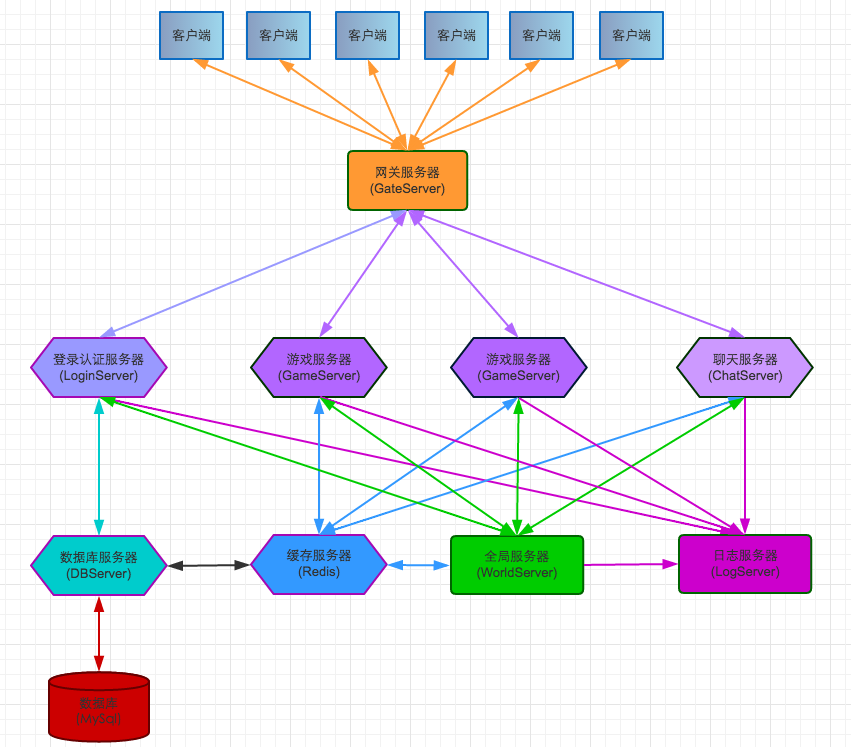
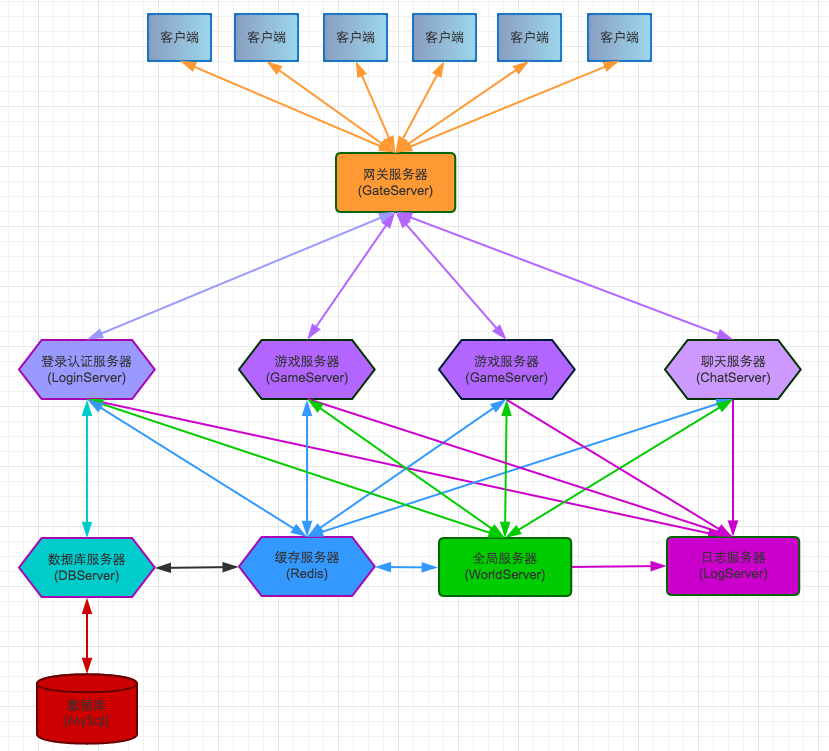
结构图修改

diff --git a/app/message/backMessage.js b/app/message/backMessage.js
@@ -37,7 +37,7 @@ function send(server, msg) {
     }
 
     if(!session){
-        Log.error('BackMessage session is not exists');
+        Log.error('BackMessage session is not exists: ' + server);
         return;
     }
     session.send(msg.encode());
